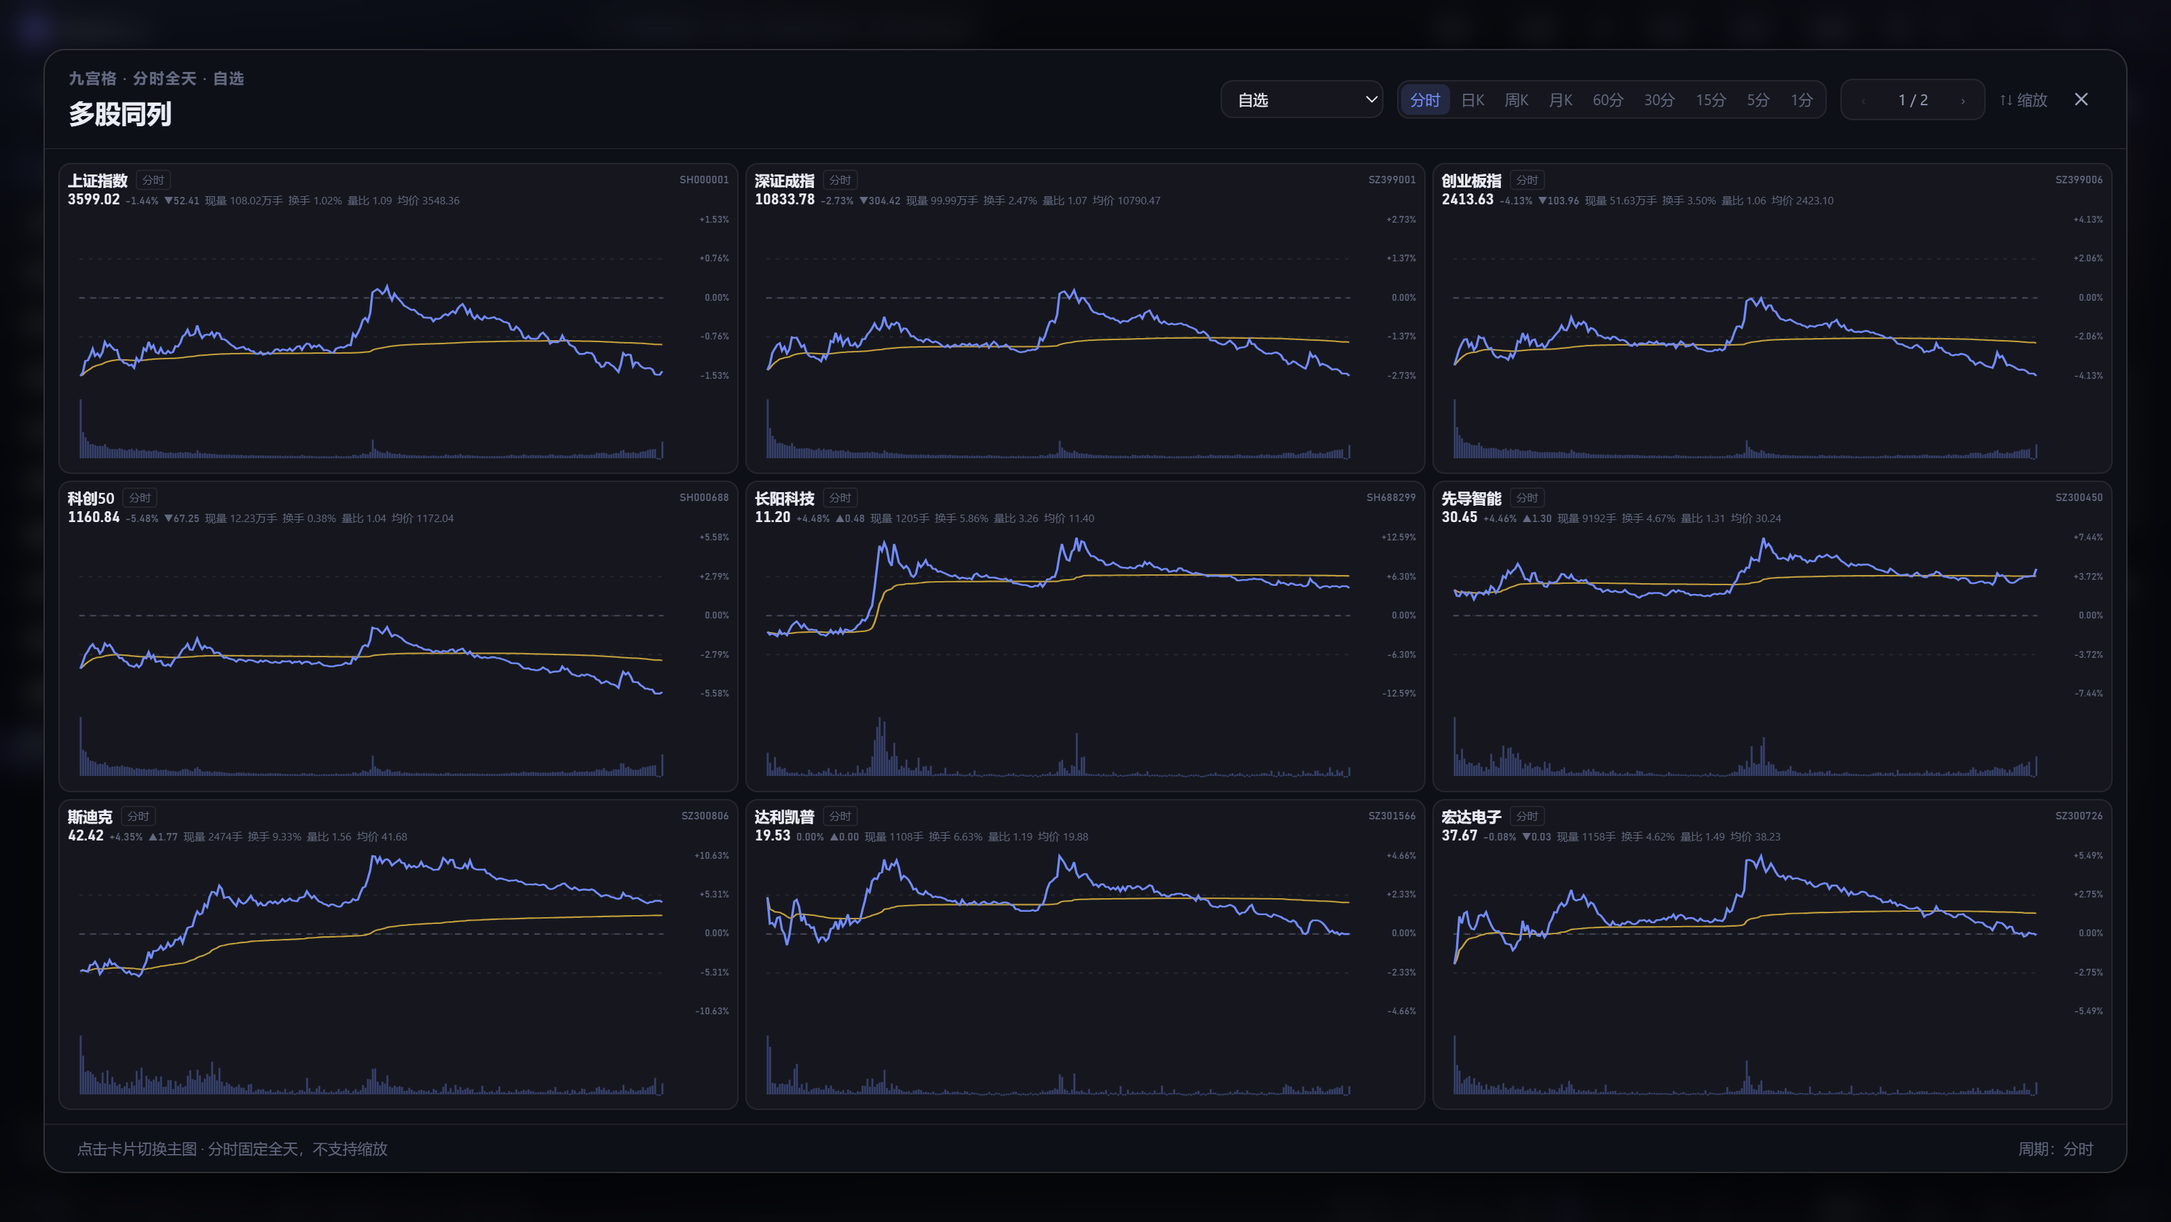
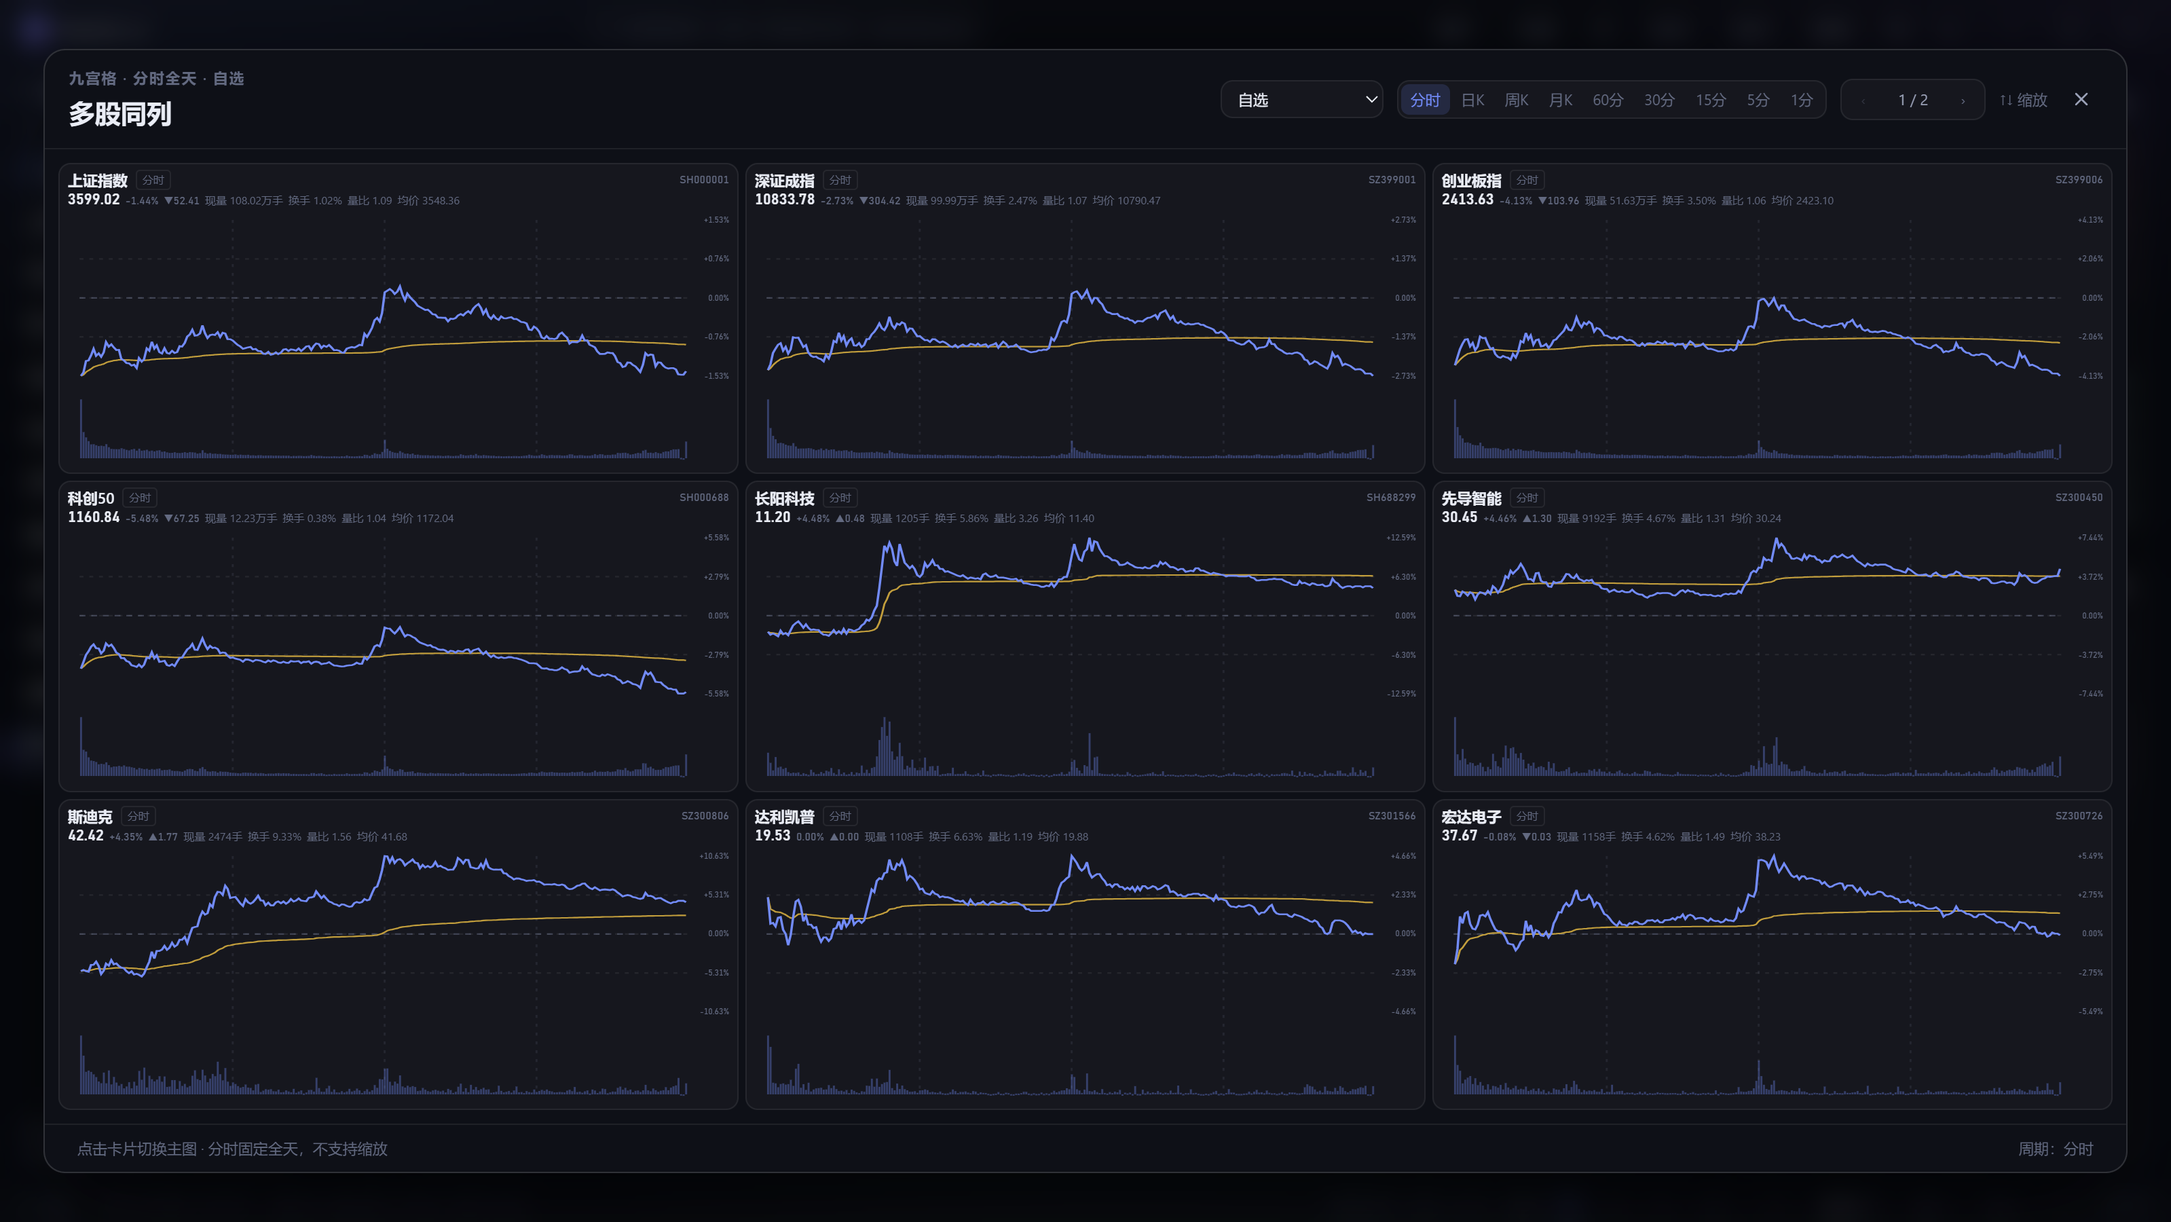
fix: 多股同列刻度贴紧、分时三道时间线、README 截图重拍
79 图内右侧留白 RIGHT_PAD=2，刻度列宽 28/27px；80 分时改为 10:30/11:30/14:00 三道淡虚线（9 格共 27 条）；81 主界面等待 25s 后重拍，明细 60 笔已刷出，多股图同步更新。\n0.13.2：setup 133,584,157 B（213ad8df…）/ 绿色 410,558,397 B / zip 175,550,129 B（0f200451…）；安装/绿色/zip 均 v0.13.2；npm run check exit 0（295 TS + 158 Python），build:web 通过。

diff --git a/src/renderer/src/components/MultiStockPanel.tsx b/src/renderer/src/components/MultiStockPanel.tsx
@@ -70,6 +70,8 @@ interface MiniKlineProps {
 const W = 320
 const H = 176
 const PAD = 6
+/** 右侧不留大缝：刻度紧贴图 */
+const RIGHT_PAD = 2
 const PRICE_H = 118
 const VOL_TOP = 128
 const VOL_H = 40
@@ -117,7 +119,7 @@ function MiniKline(props: MiniKlineProps): JSX.Element {
     }
     if (!Number.isFinite(min) || !Number.isFinite(max)) return null
     const span = max - min || Math.max(1, max * 0.01)
-    const step = (W - PAD * 2) / visible.length
+    const step = (W - PAD - RIGHT_PAD) / visible.length
     const body = Math.max(1, step * 0.62)
     const yOf = (price: number): number => PAD + (1 - (price - min) / span) * (PRICE_H - PAD * 2)
     const xOf = (index: number): number => PAD + (index - start + 0.5) * step
@@ -176,7 +178,7 @@ function MiniKline(props: MiniKlineProps): JSX.Element {
             {(ratio) => (
               <line
                 x1={PAD}
-                x2={W - PAD}
+                x2={W - RIGHT_PAD}
                 y1={PAD + ratio * (PRICE_H - PAD * 2)}
                 y2={PAD + ratio * (PRICE_H - PAD * 2)}
                 class="multi-kline__grid"
@@ -275,7 +277,7 @@ function MiniMinute(props: { trend: MinuteTrend }): JSX.Element {
     const max = base + diff
     const span = max - min
     // 横轴固定 240 个交易分钟，未走完的部分留白；数据到了线才往前延伸
-    const step = (W - PAD * 2) / DAY_POINTS
+    const step = (W - PAD - RIGHT_PAD) / DAY_POINTS
     const yOf = (price: number): number => PAD + (1 - (price - min) / span) * (PRICE_H - PAD * 2)
     const xOf = (index: number): number => PAD + (index + 0.5) * step
     const pricePath = visible
@@ -315,11 +317,22 @@ function MiniMinute(props: { trend: MinuteTrend }): JSX.Element {
             preserveAspectRatio="none"
             aria-hidden="true"
           >
+            <For each={[60, 120, 180]}>
+              {(index) => (
+                <line
+                  x1={PAD + ((index + 0.5) / DAY_POINTS) * (W - PAD - RIGHT_PAD)}
+                  x2={PAD + ((index + 0.5) / DAY_POINTS) * (W - PAD - RIGHT_PAD)}
+                  y1={PAD}
+                  y2={VOL_TOP + VOL_H}
+                  class="multi-min__time"
+                />
+              )}
+            </For>
           <For each={[0.25, 0.5, 0.75]}>
             {(ratio) => (
               <line
                 x1={PAD}
-                x2={W - PAD}
+                x2={W - RIGHT_PAD}
                 y1={PAD + ratio * (PRICE_H - PAD * 2)}
                 y2={PAD + ratio * (PRICE_H - PAD * 2)}
                 class="multi-kline__grid"
@@ -330,7 +343,7 @@ function MiniMinute(props: { trend: MinuteTrend }): JSX.Element {
             {(baseline) => (
               <line
                 x1={PAD}
-                x2={W - PAD}
+                x2={W - RIGHT_PAD}
                 y1={baseline()}
                 y2={baseline()}
                 class="multi-min__baseline"

diff --git a/src/renderer/src/styles/components.css b/src/renderer/src/styles/components.css
@@ -7721,16 +7721,16 @@
 .multi-card__axis {
   position: relative;
   flex: none;
-  width: 34px;
+  width: 27px;
   overflow: hidden;
   color: var(--text-3);
   font-family: var(--font-mono);
-  font-size: 7px;
-  line-height: 9px;
+  font-size: 6px;
+  line-height: 8px;
 }
 
 .multi-card__axis--minute {
-  width: 40px;
+  width: 28px;
 }
 
 .multi-card__axis > span {

diff --git a/docs/09-官方客户端功能清单.md b/docs/09-官方客户端功能清单.md
@@ -38,7 +38,7 @@
 | 分类过滤                      | A股/北证/创业/科创/基金/债券/REITs…        | ✅ A股/指数/基金/REITs/债券/科创/创业/北证/B股 9 个分栏                                                                                                                                                                                                                                                                                                                                                    | 7709 代码表分类                         | 分栏截图                  | P2     |
 | 涨跌家数                      | 全 A 股上涨/下跌/平盘统计                  | ✅ 5,579 只实测（893/4602/84）                                                                                                                                                                                                                                                                                                                                                                             | 0x054b 分类行情                         | 状态栏截图                | P2     |
 | 组合分析                      | 多股组合对比                               | ✅ 多股当日快照 + 等权 + 本地持仓/盈亏 + 权重/CSV + 模拟；不接交易流水（边界）                                                                                                                                                                                                                                                                                                                             | 报价 + 本地计算                         | 截图 + 等权核对           | P2     |
-| 多股同列                      | 一屏多个分时/K线                           | ✅ 固定 3×3 九宫格（9 只一页，可翻页）+ 顶部数据行 + 分时百分比刻度/K 线数值刻度 + 四道淡时间线 + 来源下拉（自选/任一自定义板块）+ 真 K 线（蜡烛+量+MA5/10/20）与分时（默认分时全天，固定 240 分钟横轴）+ 基础周期日/周/月/60/30/15/5/1 分 + 卡片拖动排序 + K 线 ↑↓ 缩放                                                                                                                                                                                                                                                                                                                                                      | 0x052d + 本地 SVG                       | 截图 + 6 卡片             | P2     |
+| 多股同列                      | 一屏多个分时/K线                           | ✅ 固定 3×3 九宫格（9 只一页，可翻页）+ 顶部数据行 + 分时百分比刻度/K 线数值刻度 + 三道淡时间线（10:30 / 11:30 / 14:00） + 来源下拉（自选/任一自定义板块）+ 真 K 线（蜡烛+量+MA5/10/20）与分时（默认分时全天，固定 240 分钟横轴）+ 基础周期日/周/月/60/30/15/5/1 分 + 卡片拖动排序 + K 线 ↑↓ 缩放                                                                                                                                                                                                                                                                                                                                                      | 0x052d + 本地 SVG                       | 截图 + 6 卡片             | P2     |
 | 综合排名                      | 涨幅/跌幅/换手/量比/振幅/市值/资金流排行   | ✅ 0x054b 首屏 80 条（短换手/封单额）+ 全市场 MAC 前 300（涨幅/成交额/涨速/换手/量比/振幅）；资金流排行已接：全市场 5,615 只批量 0x1218（2026-10-31 实测 5,615/5,615），按主力净额降序，显示净额/成交额占比；振幅按 `(最高-最低)/昨收` 计算（实测首位 32.72%）；流通/总市值排行由 MAC 0x122B + 0x0010 财务补股本（实测首位农业银行 23,879.47 亿）；财务缺失的报价剔除，全部缺失时明确报错，不用 0 伪造市值 | `0x054b` / MAC 0x122B / 0x0010 / 0x1218 | 截图 + 5,615 只实测       | P2     |
 | 定制版面                      | 自定义窗口布局                             | ✅ 左右栏宽度拖拽/持久化；默认/宽图表/宽盘口预设；3 套版面保存/应用；F 专注模式；独立 K 线窗口/置顶                                                                                                                                                                                                                                                                                                        | 本地配置                                | 截图 + 重启恢复           | P3     |
 | 板块指数 / 行业 / 概念 / 地域 | 板块列表、成分股、板块行情                 | ✅ 行业111/概念269/风格161/指数117/一般100 成分 + 880xxx 指数报价/K线已接                                                                                                                                                                                                                                                                                                                                  | `tdxhy.cfg` + `tdxzs.cfg` + 0x06b9      | 板块数量、成分抽样        | P2     |

diff --git a/PLAN.md b/PLAN.md
@@ -15,12 +15,12 @@
 
 | 项目     | 值                                                                                                                                                                           |
 | -------- | ---------------------------------------------------------------------------------------------------------------------------------------------------------------------------- |
-| 版本     | `0.13.1`（release candidate；功能矩阵 334 ✅ / 0 🟡 / 0 ⬜ / 6 ⛔，数据边界另见 docs/12）                                                                                     |
-| 最近提交 | 本轮：F10 逐页排版/公告链接、多股同列 6/9/12、板块 7 类、二级窗口放大、自选多对多；Windows 0.13.1 三件套（setup `e81f536b…` / zip `63b96b27…`）；0x0547 盘中语义待 2026-11-02 复验 |
+| 版本     | `0.13.2`（release candidate；功能矩阵 334 ✅ / 0 🟡 / 0 ⬜ / 6 ⛔，数据边界另见 docs/12）                                                                                     |
+| 最近提交 | 本轮：F10 逐页排版/公告链接、多股同列 6/9/12、板块 7 类、二级窗口放大、自选多对多；Windows 0.13.2 三件套（setup `213ad8df…` / zip `0f200451…`）；0x0547 盘中语义待 2026-11-02 复验 |
 | 健康度   | `npm run check` 全绿（295 TS + 158 Python，27 个测试文件）；2026-11-01 复核通过                                                                                              |
 | 目标     | 桌面 + Web 双前端；A 股协议全覆盖；实时 + 离线 + 面向 ML 的数据湖（`docs/00`）                                                                                               |
 | 数据源   | 通达信 7709 + MAC + 7615 + 文件下载/本地文件；7727/EX 不做                                                                                                                   |
-| 分发     | Linux AppImage/deb 已实测（`ee03b86c…` / `d1b63c69…`）；Windows x64 0.13.1 安装包 / 散装绿色包 / zip 已实测（`docs/07` 第二十七节）；包内资金流/公式/竞价归档/ROC/多屏/分时缩放已验证 |
+| 分发     | Linux AppImage/deb 已实测（`ee03b86c…` / `d1b63c69…`）；Windows x64 0.13.2 安装包 / 散装绿色包 / zip 已实测（`docs/07` 第二十八节）；包内资金流/公式/竞价归档/ROC/多屏/分时缩放已验证 |
 | 平台验证 | 代码跨 Windows/Linux/macOS；Linux 与 Windows x64 已实机打包验收，macOS 待实机验收                                                                                            |
 
 **已交付能力**（详见 `README.md` 与 `docs/09`）：

diff --git a/AGENTS.md b/AGENTS.md
@@ -125,7 +125,7 @@ npm run build:win:setup     # 只要 NSIS 安装包
 **v0.7 基本可用**：只读 HTTP API + Web 前端（`python3 python/tdx_server.py`、`npm run dev:web`）；
 `--web-dir out/web` 可单端口托管；Web 端自选/设置/预警/公式/持仓写 localStorage，行情仍只读；SSE + WebSocket 已接；独立窗口不可用。
 
-> **平台范围**：代码保持 Windows/Linux/macOS 跨平台；各自在对应系统本机构建，不做交叉编译。当前自动化只验证 Linux；Windows x64 已于 2026-11-01 实机打包验收（0.9.0 ~ 0.13.1 见 `docs/07` 第十一至二十七节），macOS 需在对应机器实机验收。
+> **平台范围**：代码保持 Windows/Linux/macOS 跨平台；各自在对应系统本机构建，不做交叉编译。当前自动化只验证 Linux；Windows x64 已于 2026-11-01 实机打包验收（0.9.0 ~ 0.13.2 见 `docs/07` 第十一至二十八节），macOS 需在对应机器实机验收。
 
 **Windows 提示**：若 PowerShell 报 `npm.ps1 cannot be loaded`，用 `npm.cmd` 代替 `npm`。
 
@@ -172,8 +172,8 @@ docs/            说明文档（是什么、为什么）
 v0.6 已把 A 股行情切到通达信 7709（Python sidecar），腾讯 web 接口与解析模块已删除。
 健康度 `npm run check` 全绿（295 个 TS 测试 + 158 个 Python 测试），
 2026-10-31 复核过构建、实机启动、包内资金流与公式多输出；
-2026-11-01 复核过 Windows x64 安装包 / 绿色包 / zip（0.9.0 ~ 0.13.1 见
-`docs/07` 第十一至二十七节）；
+2026-11-01 复核过 Windows x64 安装包 / 绿色包 / zip（0.9.0 ~ 0.13.2 见
+`docs/07` 第十一至二十八节）；
 2026-11-01 新增左栏「自选股 / 板块 / 自定义」三视图、板块选择大窗口、
 离线数据单文件备份/恢复、数据集归档（板块/财务含三大报表/龙虎榜），并修复指数除权
 （截图与实测见 `CHANGELOG`）。

diff --git a/CHANGELOG.md b/CHANGELOG.md
@@ -10,6 +10,33 @@ StockLens 的所有重要变更都记录在这里。
 
 ---
 
+## [0.13.2] - 2026-11-01
+
+### 多股同列细化
+
+- **79 刻度贴紧图**：分时/ K 线内部右侧留白 `RIGHT_PAD` 改为 2px；刻度列宽
+  40/34 → **28/27px**，字号 6px，刻度与图之间的空白明显减半。
+- **80 三道时间线**：分时只保留 **10:30 / 11:30 / 14:00** 三条淡色虚线，
+  去掉 15:00；安装包内 9 格 × 3 条 = 27 条。
+- **81 README 截图重拍**：
+  - 主界面等待 25 秒，右下「明细」已刷出逐笔成交（`stocklens-overview.png`）；
+  - 多股同列换成 3 条时间线 + 紧凑刻度版本（`stocklens-multi.png`）。
+
+### 验证
+
+- 安装包内 `multi-min__time` 27 条；分时刻度回读 `+1.53% / +0.76% / 0.00%`；
+- 安装/绿色/zip 均启动 `v0.13.2`；
+- `npm run check` exit 0：295 个 TS（294 passed + 1 skipped）+ 158 Python（1 skipped）；
+- `npm run build:web` 通过。
+
+### 产物
+
+| 产物 | 大小 | SHA256 |
+| --- | --- | --- |
[1 lines of base64/hex data omitted]
+| `StockLens-0.13.2-win-x64/` | 410,558,397 B / 76 文件 | — |
[1 lines of base64/hex data omitted]
+
 ## [0.13.1] - 2026-11-01
 
 ### 多股同列对齐官方界面

diff --git a/docs/07-手动编译发布手册.md b/docs/07-手动编译发布手册.md
@@ -1013,3 +1013,27 @@ F10 再收窄到 960px。
 - `npm run check` exit 0：295 个 TS（294 passed + 1 skipped）+ 158 Python（1 skipped）。
 
 **Linux / macOS 未重跑**：Linux 仍停留 0.9.0 产物，macOS 未验收。
+
+---
+
+## 二十八、v0.13.2 Windows 发布存档（2026-11-01 实机）
+
+79–81：多股同列右侧刻度贴紧图、分时改三道时间线（10:30/11:30/14:00）、
+README 主界面/多股同列两张图重拍。
+
+产物（`release/0.13.2/`）：
+
+| 产物 | 大小 | SHA256 |
+| --- | --- | --- |
[1 lines of base64/hex data omitted]
+| `StockLens-0.13.2-win-x64/` | 410,558,397 B / 76 个文件 | — |
[1 lines of base64/hex data omitted]
+
+实测：
+
+- 安装包内 `multi-min__time` 27 条（9 格 × 3 条），分时刻度全为百分比（`v0132-multi.png`）；
+- 主界面等待 25s，明细 60 笔已刷出（`stocklens-overview.png`）；
+- 安装/绿色/zip 均启动 `v0.13.2`；
+- `npm run check` exit 0：295 个 TS（294 passed + 1 skipped）+ 158 Python（1 skipped）。
+
+**Linux / macOS 未重跑**：Linux 仍停留 0.9.0 产物，macOS 未验收。

diff --git a/README.md b/README.md
@@ -6,7 +6,7 @@
 
 `Electron` · `Vite` · `SolidJS` · `TypeScript` · `Python` · `通达信 7709 / MAC / 7615`
 
-**版本：0.13.1（release candidate）** · **许可证：GPL-3.0-or-later** ·
+**版本：0.13.2（release candidate）** · **许可证：GPL-3.0-or-later** ·
 `npm run check`：295 个 TS 测试 + 158 个 Python 测试（各 1 skipped）·
 `npm run audit:data`：39/39。
 
@@ -34,7 +34,7 @@
 - 每一格都有价格线、均价线、昨收基准、分钟量；
 - 顶部数据行：名称/周期/现价/涨跌幅/涨跌额/现量/换手/量比/均价；
 - 右侧刻度：分时只显示百分比，K 线只显示价格；
-- 分时图有四道淡色时间线（10:30 / 11:30 / 14:00 / 15:00）；
+- 分时图有三道淡色时间线（10:30 / 11:30 / 14:00）；
 - 自选/自定义超过 9 只自动分页（`‹ 1/2 ›`，左右方向键）；
 - 卡片可直接拖动调整九格布局，点击卡片切主图。
 
